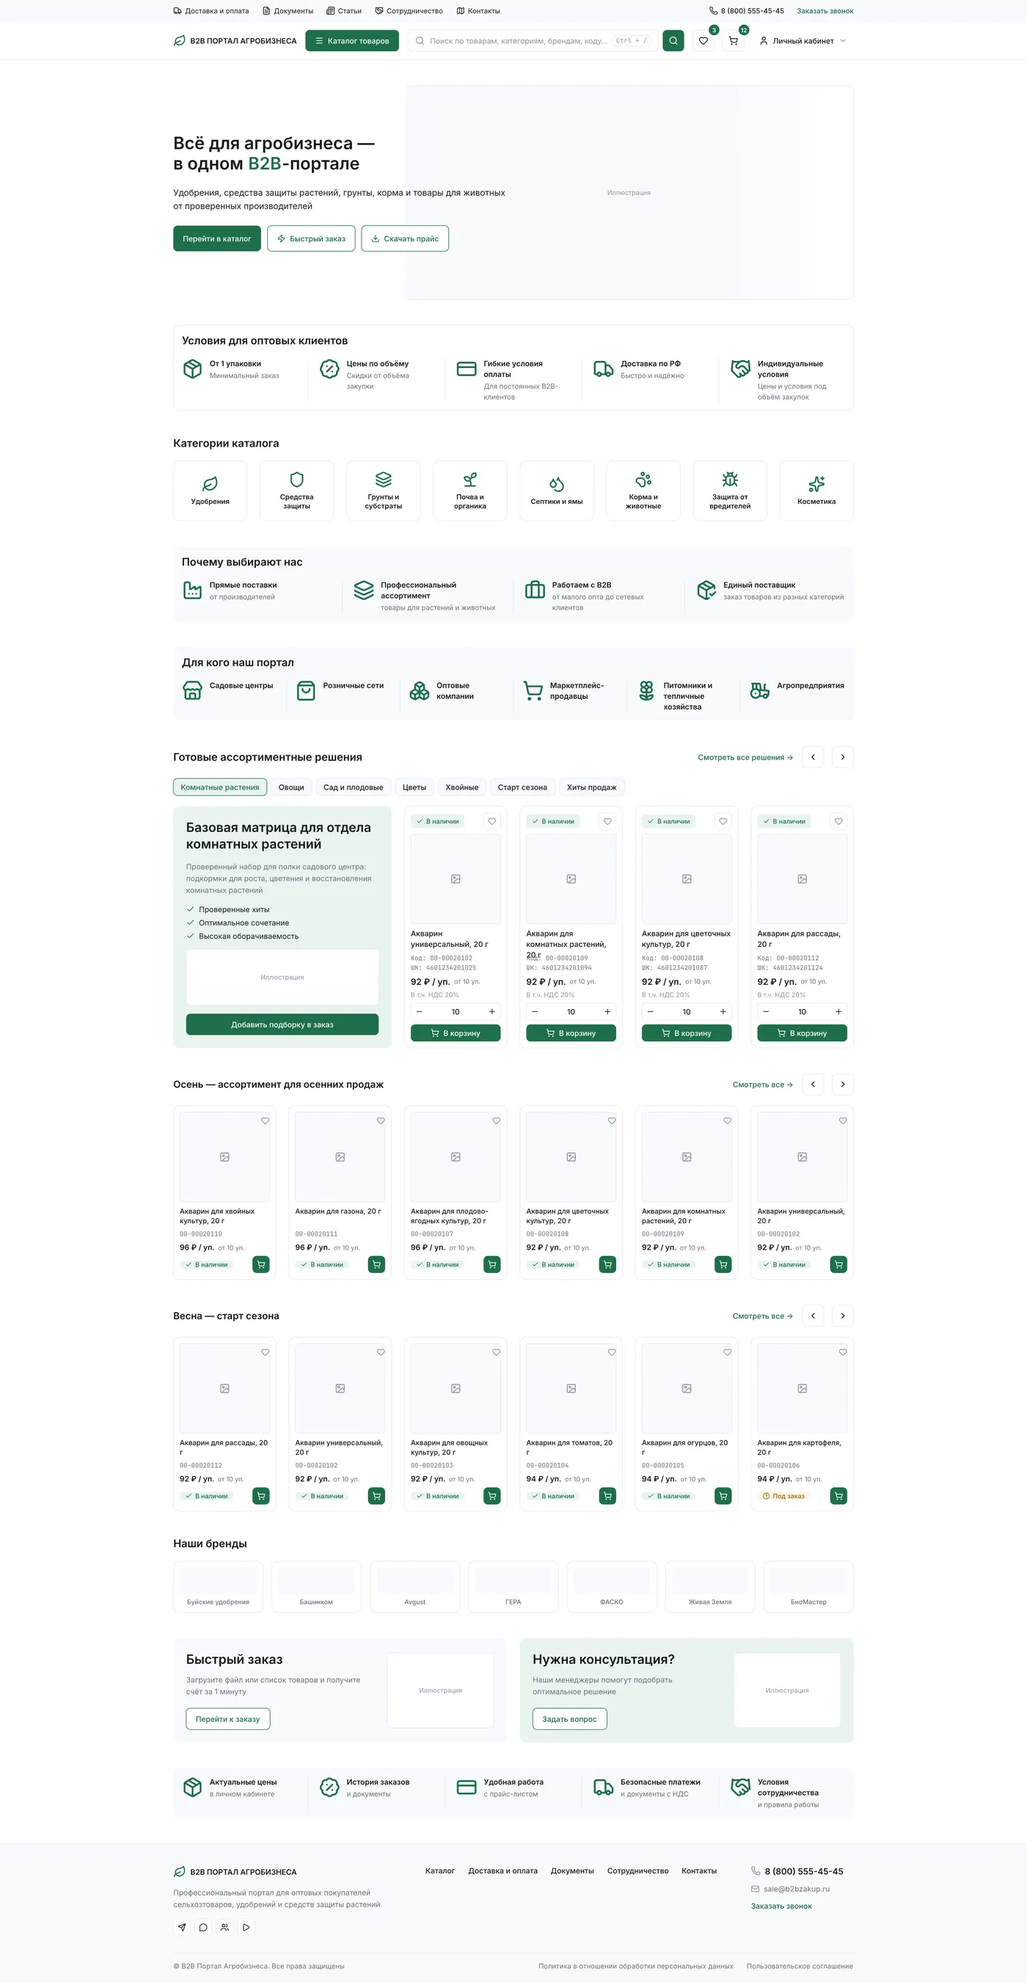
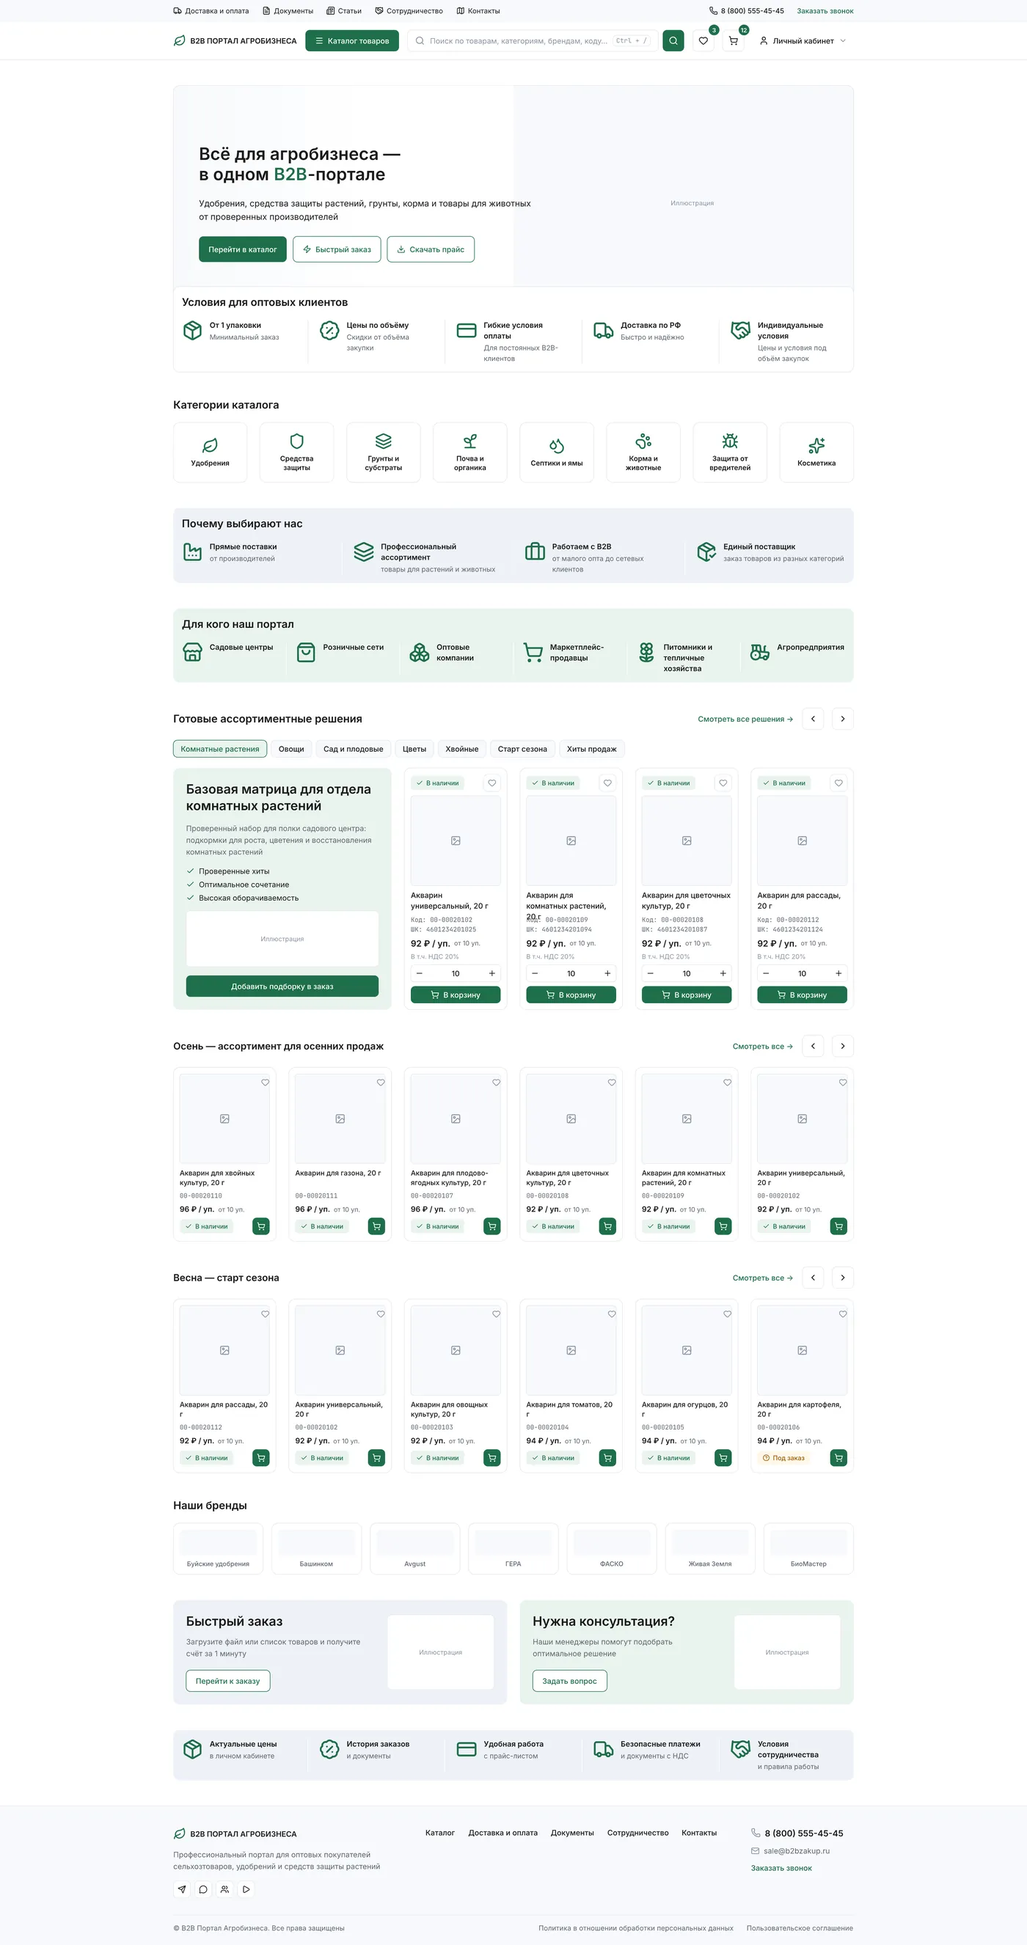
Главная: первый экран одним изображением, различимые подложки секций

diff --git a/docs/design-system/index.html b/docs/design-system/index.html
@@ -55,7 +55,7 @@
       <a href="../design-system/references.html">Референсы</a>
       <a href="../design-system/pages.html">Макеты</a>
       <a href="../progress/index.html">Ход работ</a>
-      <span class="version-chip">v1.6 · 08.09.2026</span>
+      <span class="version-chip">v1.7 · 08.09.2026</span>
     </nav>
   </div>
 </header>
@@ -90,7 +90,7 @@
       <div class="hero__meta">
         <span class="badge badge--success">Палитра и типографика согласованы</span>
         <span class="badge badge--tag">48 макетов разобрано</span>
-        <span class="badge badge--tag">Версия 1.6 · 08.09.2026</span>
+        <span class="badge badge--tag">Версия 1.7 · 08.09.2026</span>
       </div>
     </section>
 
@@ -106,7 +106,8 @@
         <div class="swatch"><div class="swatch__chip" style="background:#1F6F4A"></div><div class="swatch__body"><p class="swatch__role">Основной зелёный</p><p class="swatch__hex">#1F6F4A</p><p class="swatch__use">Кнопки действий, цены, статус «В наличии», ключевые B2B-действия</p></div></div>
         <div class="swatch"><div class="swatch__chip" style="background:#1C1C1C"></div><div class="swatch__body"><p class="swatch__role">Текст основной</p><p class="swatch__hex">#1C1C1C</p><p class="swatch__use">Заголовки, основной текст, данные таблиц</p></div></div>
         <div class="swatch"><div class="swatch__chip" style="background:#8A94A6"></div><div class="swatch__body"><p class="swatch__role">Второстепенный текст</p><p class="swatch__hex">#8A94A6</p><p class="swatch__use">Иконки второго плана, плейсхолдеры, разделители; читаемый текст 12–14 px — #6B7280, см. ниже</p></div></div>
-        <div class="swatch"><div class="swatch__chip" style="background:#F7F9FC"></div><div class="swatch__body"><p class="swatch__role">Фон базовый</p><p class="swatch__hex">#F7F9FC</p><p class="swatch__use">Фон страниц, разделение блоков</p></div></div>
+        <div class="swatch"><div class="swatch__chip" style="background:#F7F9FC"></div><div class="swatch__body"><p class="swatch__role">Фон базовый</p><p class="swatch__hex">#F7F9FC</p><p class="swatch__use">Страница каталога, верхняя служебная строка, подвал</p></div></div>
+        <div class="swatch"><div class="swatch__chip" style="background:#EDF1F6"></div><div class="swatch__body"><p class="swatch__role">Панель секции</p><p class="swatch__hex">#EDF1F6</p><p class="swatch__use">Подложка блока, который нужно отделить на белой странице</p></div></div>
         <div class="swatch"><div class="swatch__chip" style="background:#FFFFFF;border-bottom:1px solid #E5E7EB"></div><div class="swatch__body"><p class="swatch__role">Поверхность</p><p class="swatch__hex">#FFFFFF</p><p class="swatch__use">Карточки, таблицы, поля ввода</p></div></div>
         <div class="swatch"><div class="swatch__chip" style="background:#E5E7EB"></div><div class="swatch__body"><p class="swatch__role">Границы</p><p class="swatch__hex">#E5E7EB</p><p class="swatch__use">Разделители, обводки, неактивные элементы</p></div></div>
         <div class="swatch"><div class="swatch__chip" style="background:#FFB020"></div><div class="swatch__body"><p class="swatch__role">Внимание</p><p class="swatch__hex">#FFB020</p><p class="swatch__use">МЗП, кратность, предупреждения</p></div></div>
@@ -132,7 +133,7 @@
       <div class="grid grid--4" style="margin-top:16px">
         <div class="card">
           <p class="row" style="color:var(--text-muted-ink);font-size:13px">Код 00-00020102 · от 10 уп. · В т.ч. НДС 20%</p>
-          <p class="swatch__hex" style="margin-top:12px">Текст #6B7280 · контраст 4,8:1</p>
+          <p class="swatch__hex" style="margin-top:12px">Текст #5F6673 · контраст 5,8:1 на белом, 5,1:1 на панели</p>
         </div>
         <div class="card">
           <p class="row"><span class="badge badge--warning"><svg><use href="#i-alert-triangle"/></svg>МЗП: 10 кг</span></p>
@@ -190,7 +191,7 @@
         <div class="card"><p class="swatch__role">Шаг сетки</p><p class="swatch__hex">4 px</p><p class="swatch__use">Отступы кратны четырём: 4 · 8 · 12 · 16 · 20 · 24 · 32 · 48 · 64.</p></div>
         <div class="card"><p class="swatch__role">Высоты</p><p class="swatch__hex">32 · 40 · 48 px</p><p class="swatch__use">Строка таблицы и степпер — 32, поле и кнопка — 40, главное действие — 48.</p></div>
         <div class="card"><p class="swatch__role">Тень</p><p class="swatch__hex">0 1 2 rgba(28,28,28,.06)</p><p class="swatch__use">Одна тень на выпадающие списки и поповеры. Карточки отделяются границей, а не тенью.</p></div>
-        <div class="card"><p class="swatch__role">Фон страницы</p><p class="swatch__hex">белый · панели #F7F9FC и #E8F2ED</p><p class="swatch__use">Страница белая; блок, который нужно отделить, лежит на панели с радиусом 12 и полями 16. Подложки чередуются — подряд идущие блоки не берут одну и ту же. Каталог — исключение: серая страница, белые таблица и карточки.</p></div>
+        <div class="card"><p class="swatch__role">Фон страницы</p><p class="swatch__hex">белый · панели #EDF1F6 и #E9F3EE</p><p class="swatch__use">Страница белая; блок, который нужно отделить, лежит на панели с радиусом 12 и полями 16. Подложки чередуются — подряд идущие блоки не берут одну и ту же. Панель следующей секции может накрывать низ изображения первого экрана. Каталог — исключение: серая страница, белые таблица и карточки.</p></div>
         <div class="card"><p class="swatch__role">Иконка блока</p><p class="swatch__hex">40 px слева · 32 px сверху</p><p class="swatch__use">Контурная зелёная иконка без подложки: 40 — когда она стоит слева от двух строк текста и в рост с ними, 32 — когда над названием на плитке. Квадрат 48 на светло-зелёном — только у блока «Нужна помощь?» и промо-панели окна звонка, круг 64 — у пустых состояний.</p></div>
       </div>
 
@@ -1126,7 +1127,7 @@
 
 <footer class="footer">
   <div class="container footer__inner">
-    <span>B2B-портал агробизнеса · b2bzakup.ru · дизайн-система v1.6 от 08.09.2026</span>
+    <span>B2B-портал агробизнеса · b2bzakup.ru · дизайн-система v1.7 от 08.09.2026</span>
     <span>Страница для согласования. Не для публичного распространения.</span>
   </div>
 </footer>

diff --git a/docs/design-system/pages.html b/docs/design-system/pages.html
@@ -57,15 +57,15 @@
       <p>Первый экран, условия для оптовых клиентов, категории, ассортиментные решения, сезонные подборки и бренды.</p>
     </div>
     <h3 id="home">Главная страница</h3>
-    <p class="note">Первый экран, условия для оптовых клиентов, категории, преимущества, ассортиментные решения, сезонные подборки, бренды и промо-блоки. Кадр в ширину монитора 1920 с полосой содержимого 1320 по центру — по замечаниям от 08.09.2026.</p>
+    <p class="note">Первый экран, условия для оптовых клиентов, категории, преимущества, ассортиментные решения, сезонные подборки, бренды и промо-блоки. Первый экран — одно изображение во всю ширину полосы, текст и кнопки поверх него; следующий блок накрывает низ изображения. Кадр в ширину монитора 1920 с полосой содержимого 1320 по центру.</p>
     <div class="ref-grid ref-grid--wide">
       <figure class="ref">
         <a class="ref__frame" href="assets/pages/home-1920.webp" data-title="Главная страница, десктоп">
-          <img src="assets/pages/home-1920.webp" width="1400" height="2704" loading="lazy" decoding="async" alt="Главная страница, десктоп">
+          <img src="assets/pages/home-1920.webp" width="1400" height="2652" loading="lazy" decoding="async" alt="Главная страница, десктоп">
         </a>
         <figcaption>
           <p class="ref__title">Главная страница, десктоп</p>
-          <p class="ref__note">Кадр в ширину монитора 1920: содержимое стоит в полосе 1320 по центру, слева и справа остаются поля по 300 пикселей. Первый экран с изображением у правого края, которое слева растворяется в белом, восемь плиток категорий в один ряд, условия и преимущества пунктами с иконкой слева и вертикальными отсечками, готовые ассортиментные решения с подборкой и каруселью, два сезонных ряда по шесть карточек, плитки брендов, два промо-блока на разных подложках, предфутерная полоса и подвал. Гость видит цены базового опта.</p>
+          <p class="ref__note">Кадр в ширину монитора 1920: содержимое стоит в полосе 1320 по центру, слева и справа остаются поля по 300 пикселей. Первый экран — одно изображение во всю ширину полосы со скруглением: заголовок, подзаголовок и три кнопки лежат поверх его левой части, слева наложена светлая маска, чтобы текст читался на любой картинке. Панель «Условия для оптовых клиентов» приподнята и накрывает низ изображения. Дальше восемь плиток категорий в один ряд, условия и преимущества пунктами с иконкой слева и вертикальными отсечками, готовые ассортиментные решения с подборкой и каруселью, два сезонных ряда по шесть карточек, плитки брендов, два промо-блока на разных подложках, предфутерная полоса и подвал. Серые и светло-зелёные полосы чередуются, чтобы соседние блоки не сливались. Гость видит цены базового опта.</p>
         </figcaption>
       </figure>
     </div>
@@ -77,7 +77,7 @@
         </a>
         <figcaption>
           <p class="ref__title">Главная страница, телефон</p>
-          <p class="ref__note">Те же блоки в одну колонку: мобильная шапка, первый экран без изображения, категории по два в ряд, сезонные ряды — горизонтальными карточками с прокруткой, блока брендов нет, промо-блоки без изображений, предфутерная полоса в две колонки, подвал одной колонкой и нижняя панель навигации с корзиной.</p>
+          <p class="ref__note">Те же блоки в одну колонку: мобильная шапка, первый экран без изображения — заголовок, подзаголовок и три кнопки на всю ширину, категории по два в ряд, сезонные ряды — горизонтальными карточками с прокруткой, блока брендов нет, промо-блоки без изображений, предфутерная полоса в две колонки, подвал одной колонкой и нижняя панель навигации с корзиной.</p>
         </figcaption>
       </figure>
     </div>

diff --git a/docs/progress/index.html b/docs/progress/index.html
@@ -142,7 +142,7 @@
           <tr>
             <td>
               <p class="ref__title">Главная страница</p>
-              <p class="ref__note">Первый экран, условия для оптовых клиентов, категории, преимущества, ассортиментные решения, сезонные подборки, бренды и промо-блоки. Кадр в ширину монитора 1920 с полосой содержимого 1320 по центру — по замечаниям от 08.09.2026.</p>
+              <p class="ref__note">Первый экран, условия для оптовых клиентов, категории, преимущества, ассортиментные решения, сезонные подборки, бренды и промо-блоки. Первый экран — одно изображение во всю ширину полосы, текст и кнопки поверх него; следующий блок накрывает низ изображения. Кадр в ширину монитора 1920 с полосой содержимого 1320 по центру.</p>
             </td>
             <td><span class="badge badge--success-outline">Макет готов</span><span class="mono" style="display:block;margin-top:6px;color:var(--text-muted);font-size:12px">с 08.09.2026</span></td>
             <td><a href="https://b2bzakup-portal.github.io/b2b-site/design-system/pages.html#home">Макет →</a></td>

diff --git a/docs/design-system/assets/site.css b/docs/design-system/assets/site.css
@@ -11,8 +11,9 @@
   --primary: #1f6f4a;
   --text: #1c1c1c;
   --text-muted: #8a94a6;
-  --text-muted-ink: #6b7280;
+  --text-muted-ink: #5f6673;
   --bg: #f7f9fc;
+  --panel: #edf1f6;
   --surface: #ffffff;
   --border: #e5e7eb;
   --warning: #ffb020;

diff --git a/docs/progress/assets/site.css b/docs/progress/assets/site.css
@@ -11,8 +11,9 @@
   --primary: #1f6f4a;
   --text: #1c1c1c;
   --text-muted: #8a94a6;
-  --text-muted-ink: #6b7280;
+  --text-muted-ink: #5f6673;
   --bg: #f7f9fc;
+  --panel: #edf1f6;
   --surface: #ffffff;
   --border: #e5e7eb;
   --warning: #ffb020;
